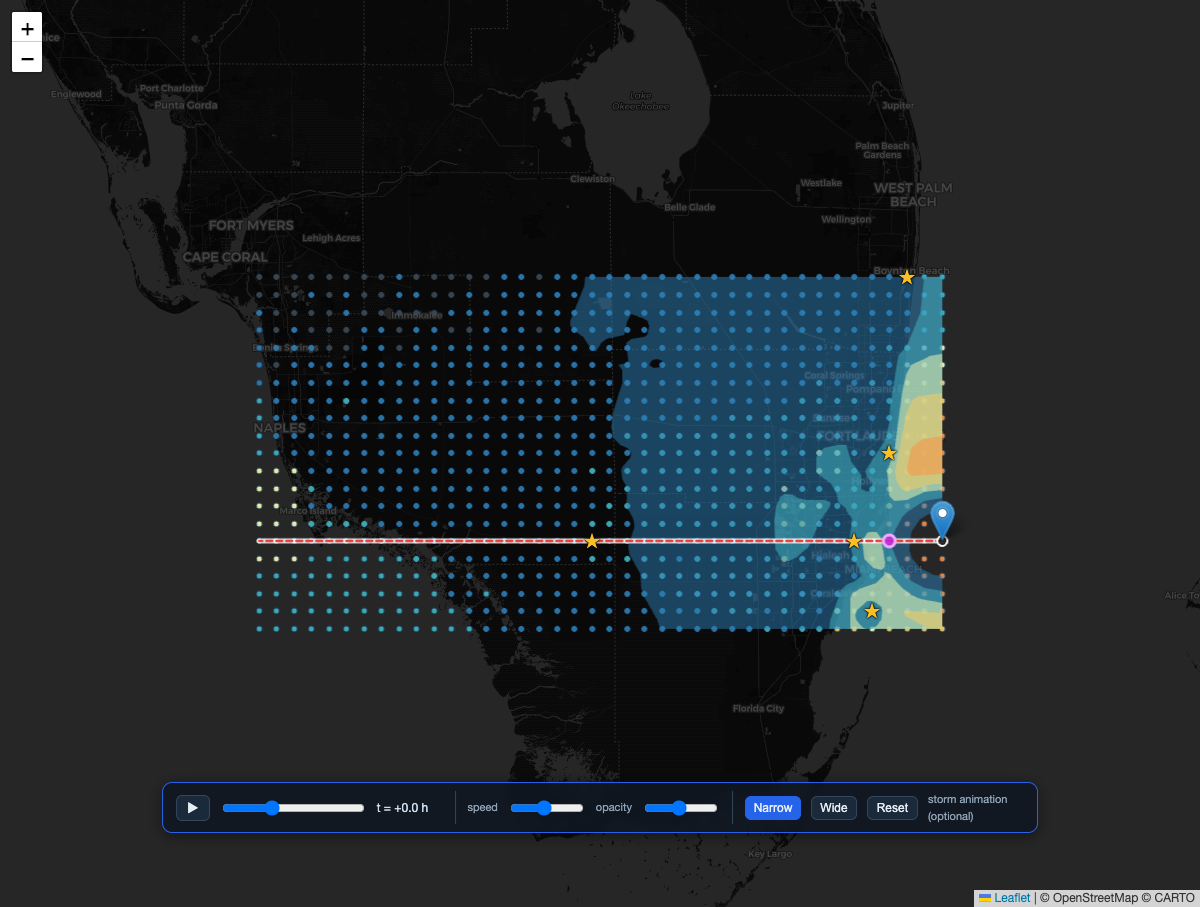
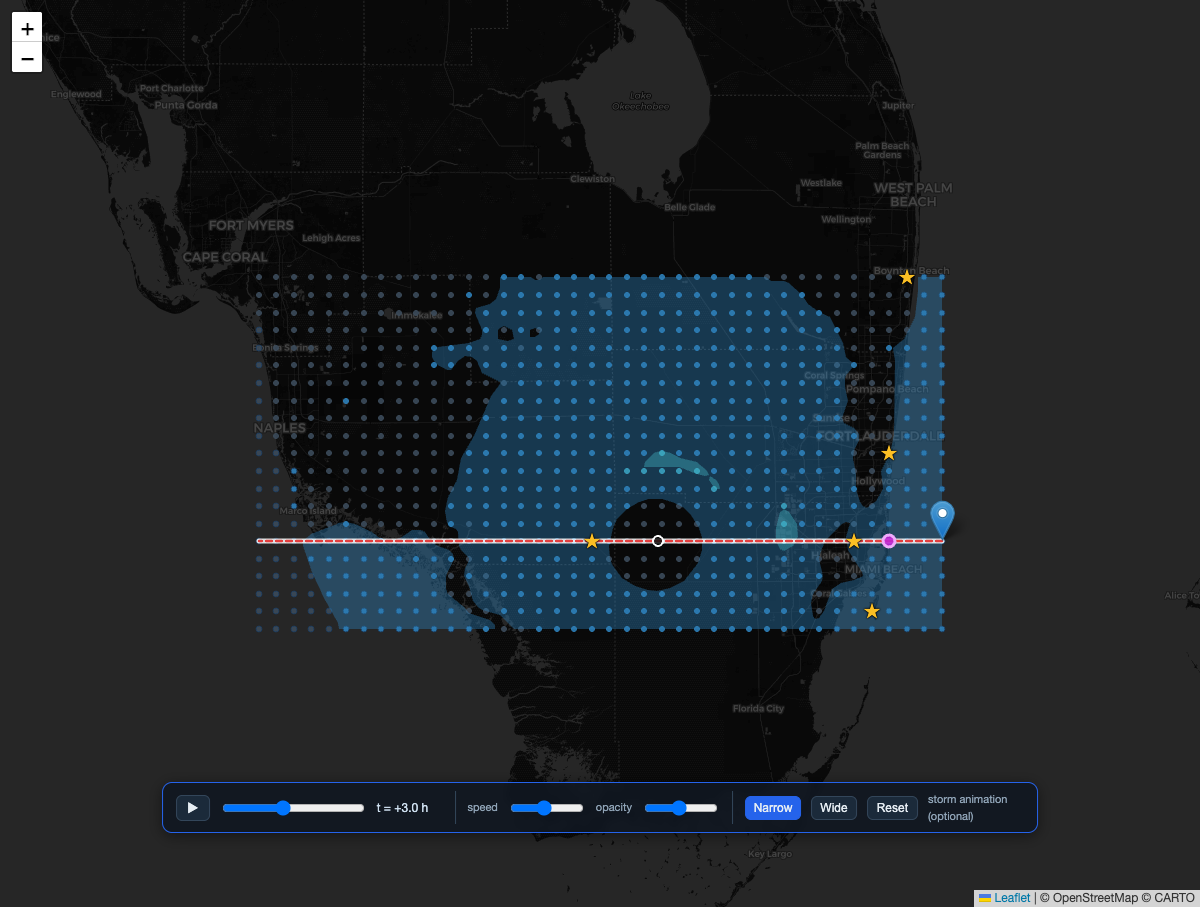
Storm animation: dynamic grid dots (instantaneous wind per frame)
During the animation each grid marker now recolours to the INSTANTANEOUS wind at
its vertex every frame (animRenderFrame maps ext.gridIdx -> state.markers), so the
lattice updates live as the storm passes -- the calm eye reads as a dark hole in
the dots. updateField restores the static peak coloring on exit.

Verified (tests/auto/test_anim.py): the coastal vertex (6,0) goes from the calm
base color at t=-12 to the 39-74 mph band at t=0 as the eyewall arrives. At the
start (t=-12) the grid is uniformly calm -- max 13-28 mph, 0 dots at TS force
across all models -- since the eye is ~200 mi offshore (outer circulation nonzero
but below 39 mph). Documented in docs/FormS6.tex (+regenerated Narrow landfall
figure showing the eye hole).

Changed region(s): [[0.2158, 0.3087, 0.6167, 0.71], [0.6167, 0.2778, 0.8017, 0.71], [0.2158, 0.8644, 0.2467, 0.8953]]

diff --git a/web/anim.js b/web/anim.js
@@ -167,11 +167,15 @@ function animEyeLatLng(t, rec) {
 function animRenderFrame(i) {
   if (ANIM.key !== animStormKey() && !animPrecompute()) return;
   ANIM.i = Math.max(0, Math.min(ANIM.frames - 1, i));
-  const ext = ANIM.ext;
+  const ext = ANIM.ext, F = ANIM.fields[ANIM.i];
   if (state.animContour) { state.map.removeLayer(state.animContour); state.animContour = null; }
   const thr = WIND_STOPS.map(s => s[0]).filter(v => v > 0);
-  state.animContour = buildContourLayer(ext.grid, ANIM.fields[ANIM.i], thr, windColor,
+  state.animContour = buildContourLayer(ext.grid, F, thr, windColor,
     { lattice: ext.lattice, upsample: ANIM.upsample, fillOpacity: ANIM.fillOpacity }).addTo(state.map);
+  // dynamic dots: recolor each grid vertex by the INSTANTANEOUS wind at this frame,
+  // so the lattice updates live as the storm passes (offshore ext points have gi<0)
+  const gi = ext.gridIdx, mk = state.markers;
+  if (mk) for (let k = 0; k < gi.length; k++) { const g = gi[k]; if (g >= 0) mk[g].setStyle({ fillColor: windColor(F[k]) }); }
   if (state.layers.trackLines) state.layers.trackLines.forEach(l => l.bringToFront());
   if (state.layers.landfall) state.layers.landfall.bringToFront();
 

diff --git a/docs/FormS6.tex b/docs/FormS6.tex
@@ -722,7 +722,10 @@ the time slider ($t=-12\to+24$\,h); \textbf{speed} and \textbf{opacity} sliders 
 the playback rate and how far the grid points show through the field. Two view
 buttons choose the extent: \textbf{Narrow} (the default) renders only over the grid
 at the default zoom, so the storm enters from the east edge near $t=0$ and the grid
-points remain visible beneath the translucent bands (Figure~\ref{fig:anim}, right);
+points remain visible beneath the translucent bands; each dot also \emph{recolours
+to the instantaneous wind} at its vertex, so the whole lattice updates live as the
+eye passes---the calm eye reads as a dark hole in the dots (Figure~\ref{fig:anim},
+right);
 \textbf{Wide} extends the render domain east into the Atlantic---sized per storm to
 $12V_T+90$\,mi, since at $t=-12$ the eye is offshore ($\mathrm{ewc}=V_T t<0$)---and
 zooms the map out so the full approach is visible (left). The storm then sweeps west,
@@ -741,10 +744,11 @@ default zoom.
 \caption{Optional storm animation (Holland, Category~5). Left (\textbf{Wide}):
 $t=-12$\,h---the instantaneous windfield offshore over the Atlantic as the storm
 approaches, the map zoomed out over the extended domain. Right (\textbf{Narrow},
-the default): $t=0$---the eye at the coast with the eyewall over
-Miami/Fort~Lauderdale, the translucent bands letting the grid points show through.
-Speed / opacity sliders and Narrow/Wide buttons sit on the control bar; Reset
-restores the static peak-wind footprint at the default zoom.}
+the default): the eye over the grid with the eyewall onshore---the translucent bands
+let the grid points show through, and each dot is recoloured to the instantaneous
+wind (the calm eye a dark hole in the lattice). Speed / opacity sliders and
+Narrow/Wide buttons sit on the control bar; Reset restores the static peak-wind
+footprint at the default zoom.}
 \label{fig:anim}
 \end{figure}
 

diff --git a/tests/auto/test_anim.py b/tests/auto/test_anim.py
@@ -93,6 +93,18 @@ def main():
         if n["npts"] != 840 or abs(n["zoom"] - zoom0) > 0.001:
             fail.append(f"Narrow should return to 840-pt grid at default zoom, got {n}")
 
+        # 3b. dynamic dots: a coastal vertex recolors between frames as the storm passes
+        click("simNarrow")
+        dyn = d.execute_script("""
+          const idx = state.grid.points.findIndex(p=>p.ew===6 && p.ns===0);
+          animRenderFrame(0);  const c0 = state.markers[idx].options.fillColor;
+          animRenderFrame(24); const c24 = state.markers[idx].options.fillColor;
+          return [c0, c24];
+        """)
+        print("dot color @t-12 vs @t0:", dyn)
+        if dyn[0] == dyn[1]:
+            fail.append(f"grid dot should recolor as the storm passes, got {dyn}")
+
         # 4. Reset exits + restores
         click("simReset")
         after = d.execute_script("return {active:ANIM.active, contour:!!state.animContour, "

diff --git a/projectplan.md b/projectplan.md
@@ -730,6 +730,14 @@ with the instantaneous field and reverts on stop.
   animation. `test_anim.py` rewritten to cover Narrow(840)/Wide(2835), zoom behavior,
   and the opacity slider; docs paragraph + figures updated (Wide approach / Narrow
   landfall). Static-contour tests unchanged (opacity default preserved).
+- **Dynamic dots (round 3):** during animation each grid marker recolours to the
+  INSTANTANEOUS wind at its vertex per frame (`animRenderFrame` maps `ext.gridIdx` →
+  `state.markers`), so the lattice updates live and the calm eye reads as a dark hole.
+  `updateField` restores the static coloring on exit. Verified: (6,0) goes base →
+  39–74 mph band as the eye arrives. At t=−12 the grid is uniformly calm (max 13–28
+  mph, 0 dots ≥ 39 mph across all models) — the storm's outer circulation is nonzero
+  but below TS force, so all dots show the single base band (possible follow-up: a
+  finer sub-40 ramp to reveal the approaching outer winds).
 
 ---
 